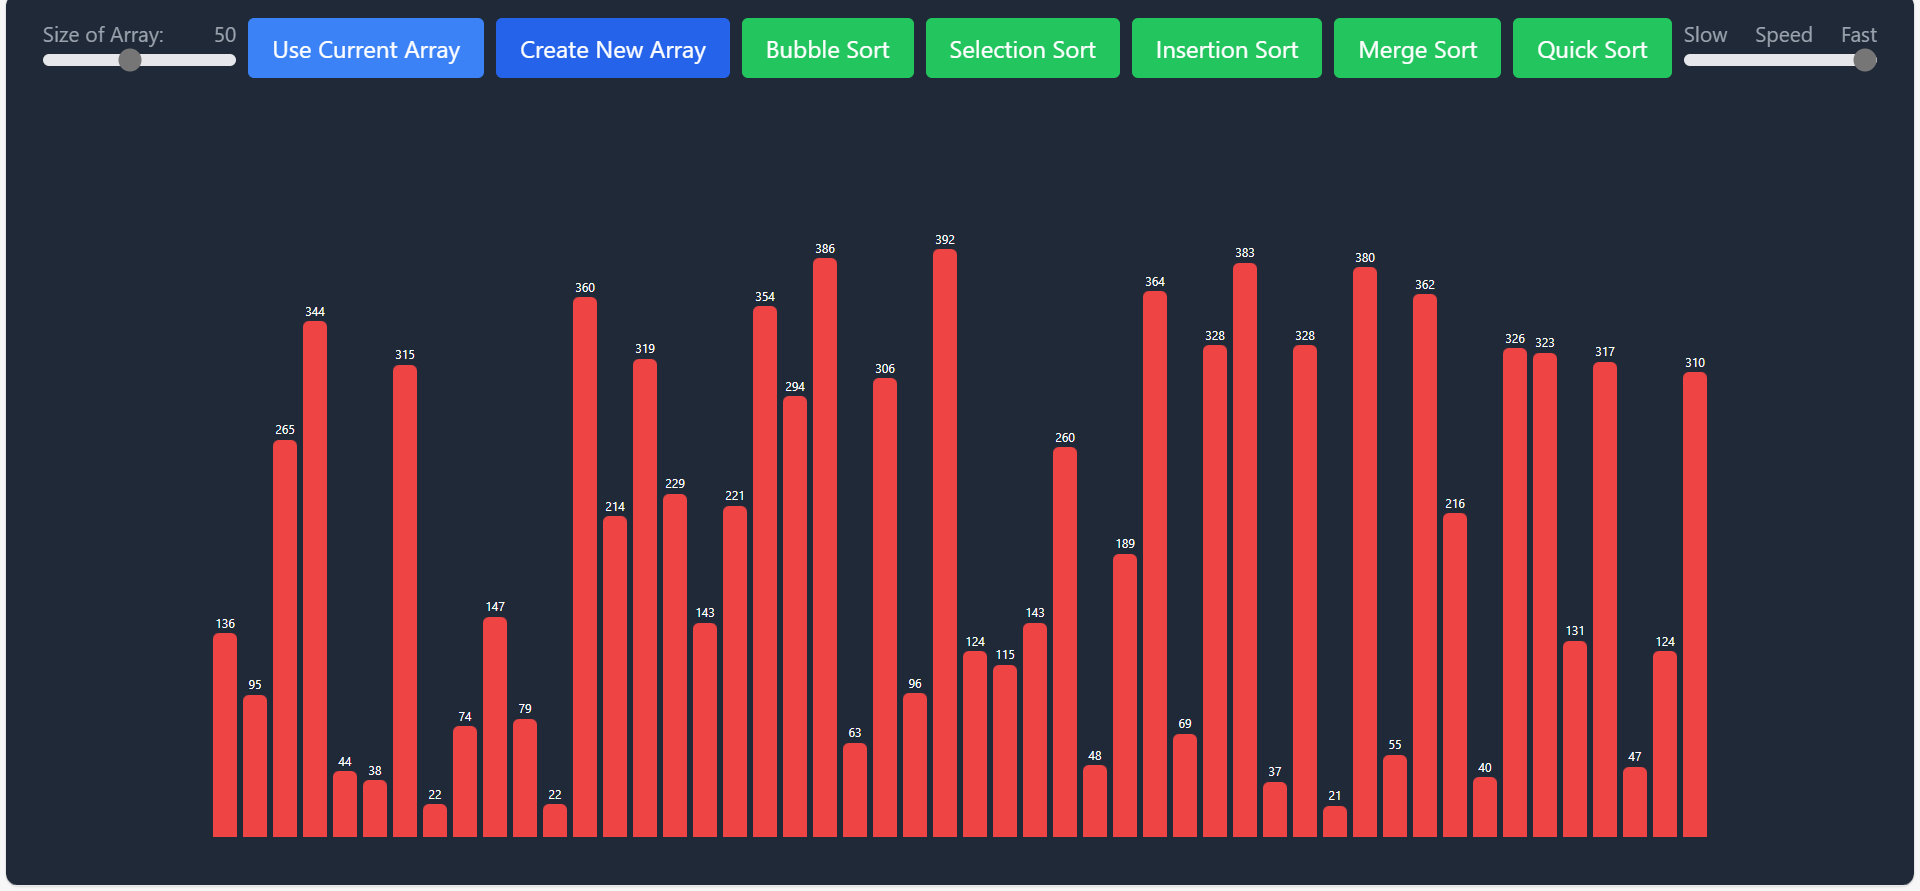
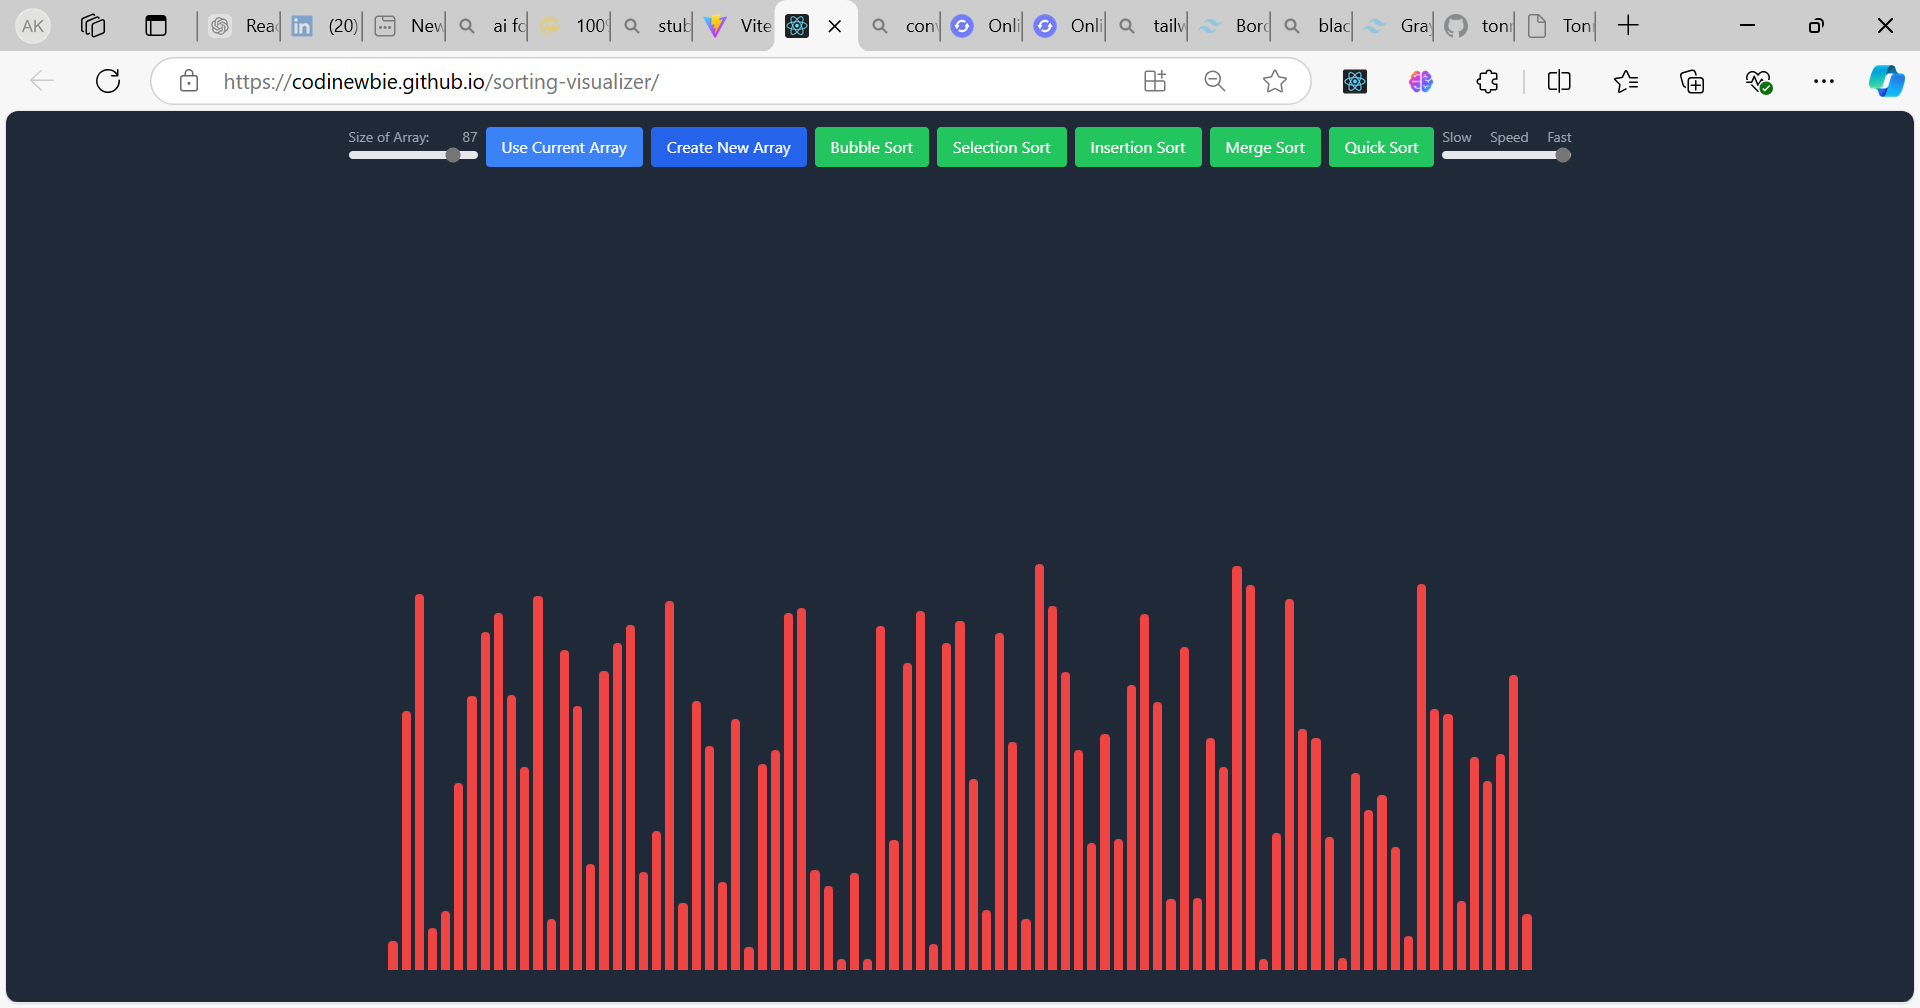
updated images

diff --git a/src/components/Hero.jsx b/src/components/Hero.jsx
@@ -1,13 +1,13 @@
 import React from 'react';
 import 'boxicons/css/boxicons.min.css';
-import aman from "/src/images/aman.jpg";
+import aman2 from "/src/images/aman2.jpg";
 const Hero = () => {
   return (
     <>
     <header id="Home" className="">
       <div className="py-16 flex flex-col-reverse gap-10 text-center md:text-left md:flex-row items-center md:justify-between">
         <div className="">
-          <h2 className="text-3xl md:text-5xl font-black mb-5 leading-tight">Full-Stack Software Developer 👋</h2>
+          <h2 className="text-3xl md:text-5xl font-black mb-5 leading-tight">Full-Stack Software Developer</h2>
           <p className="mb-5">Hi, I’m Aman Kumar, a passionate Full-Stack Software Developer based in India</p>
           <div className="flex items-center justify-center md:justify-start text-4xl gap-4">
           
@@ -38,8 +38,8 @@ const Hero = () => {
     
         <div className="w-[200px] md:w-[250px] rounded-lg">
           <img
-            className ="rounded-lg"
-            src={aman}
+            className ="rounded-lg grayscale "
+            src={aman2}
             alt="Aman profile pic"
           />
         </div>

diff --git a/src/components/project.jsx b/src/components/project.jsx
@@ -3,7 +3,7 @@ import 'boxicons/css/boxicons.min.css';
 import 'devicon/devicon.min.css';
 import Project1 from "/src/images/Project1.png";
 import Project2 from "/src/images/Project2.png";
-import Project3 from "/src/images/Project3.png";
+import Project3_12 from "/src/images/Project3_12.png";
 const Portfolio = () => {
   return (
  
@@ -60,7 +60,7 @@ const Portfolio = () => {
            {/* Project2*/}
            <div className="flex flex-col md:flex-row md:odd:flex-row-reverse items-stretch gap-5 p-2.5 md:p-5 border border-neutral-200 rounded-xl shadow-sm bg-white">
             <div className="w-full md:w-1/2 overflow-hidden rounded-lg">
-              <img src={Project3} alt="Sorting-Visualizer" className="w-full h-full" />
+              <img src={Project3_12} alt="Sorting-Visualizer" className="w-full h-full" />
             </div>
             <div className="flex-1 flex flex-col">
               <div className="flex items-center flex-wrap gap-1 text-xs uppercase mb-5">
